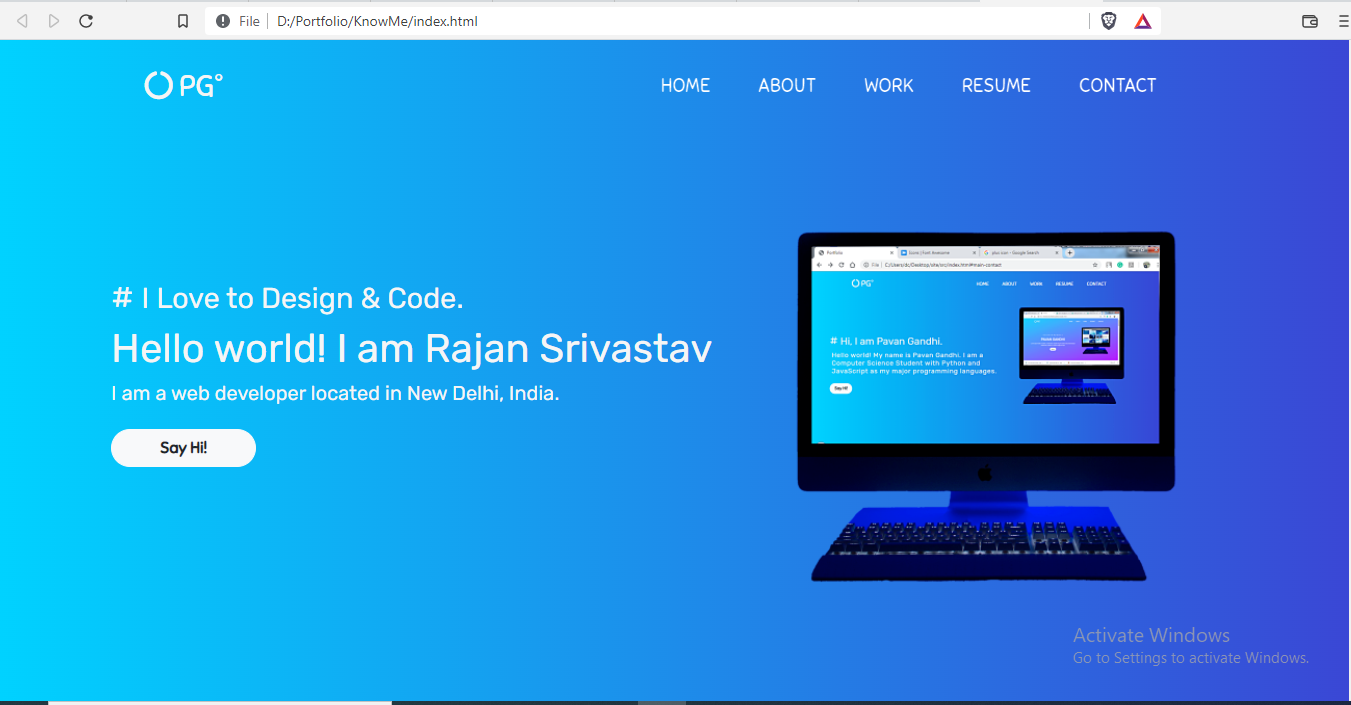
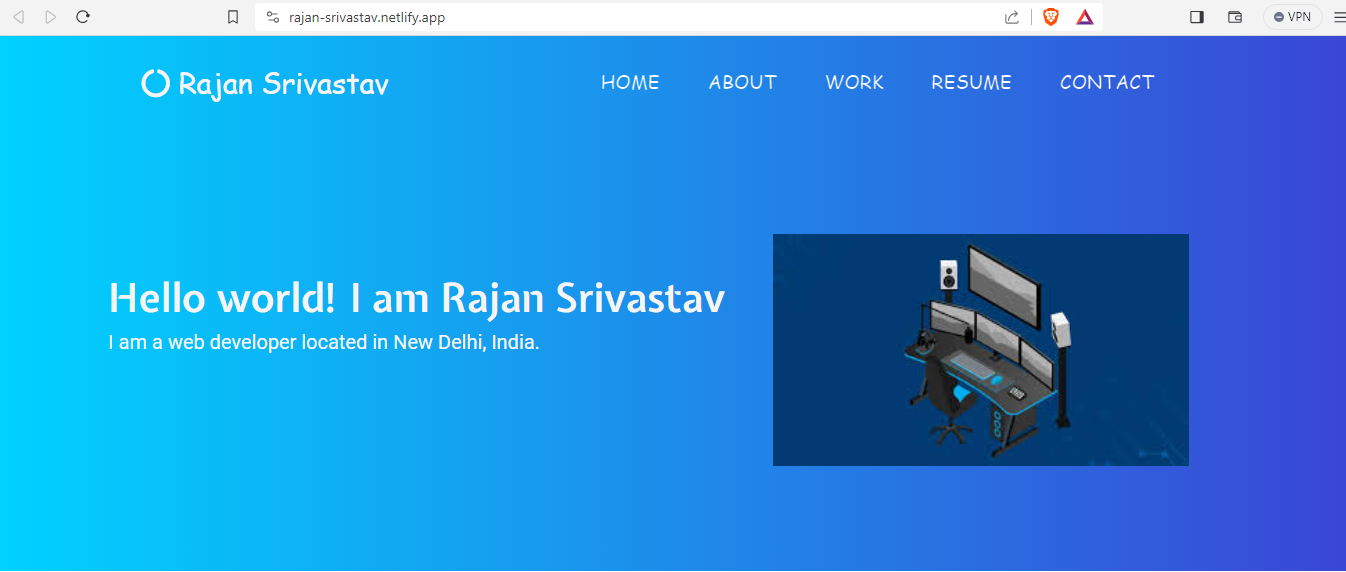
Updating projects and other minor changes

diff --git a/index.html b/index.html
@@ -77,7 +77,7 @@
 
             <h1 class="header-expletus-font">Hello world! I am Rajan Srivastav</h1>
             <h5>
-              I am a web developer located in New Delhi, India.
+              I am a Web Developer based out of New Delhi, India.
             </h5>
 
             <!-- <div class="text-left">
@@ -196,9 +196,9 @@
                 </p>
                 <h4>SKILLS</h4>
                 <p>
-                  Javascript, Python, HTML5, CSS3,<br />
-                  MySQL,<br />
-                  Git, Github, VSCode, Linux
+                  React, Javascript, Java<br />
+                  HTML5, CSS3, Tailwind CSS<br />
+                  MySQL, Oracle
                 </p>
 
                 <a class="btn btn-light px-3 py-1.5" href="assets/profile.pdf"
@@ -241,65 +241,78 @@
       <section id="main-project" class="section-4">
         <div class="container text-center">
           <h1 class="header-expletus-font">Projects I have done</h1>
-          <p class="text-secondary">Kindly visit My Github Profile for My Projects: <a href="https://github.com/wortit988">wortit988</a></p>
+          <p class="text-secondary">Kindly visit My Github Profile for My Projects: <a href="https://github.com/wortit988">Wortit988</a></p>
         </div>
         <div class="cards">
           <div class="d-flex flex-md-row flex-wrap justify-content-center">
-            <div
-              class="card mr-2 d-inline-block shadow-lg"
-              style="width: 18rem"
-            >
-              <img src="assets/background.png" class="card-img-top" alt="..." />
-              <div class="card-body">
-                <h4 class="card-title">My Portfolio</h4>
-                <p class="card-text">
-                  Created my personal/portfolio website using technologies like
-                  HTML5, CSS3, BOOTSTRAP v4.3 and JavaScript.
-                </p>
-              </div>
-              <div class="card-body">
-                <a
-                  href=https://github.com/wortit988"
-                  target="_blank"
-                  class="card-link"
-                  >Project link</a
+            <a href="https://github.com/wortit988/Portfolio" style="color: #000000; text-decoration: none;" target="_blank" >
+                <div
+                  class="card mr-2 d-inline-block shadow-lg"
+                  style="width: 18rem"
                 >
-              </div>
-            </div>
-            <div
-              class="card mr-2 d-inline-block shadow-lg"
-              style="width: 18rem"
-            >
-              <img
-                src="assets/background-def.png"
-                class="card-img-top"
-                alt="..."
-              />
-              <div class="card-body">
-                <h4 class="card-title">New Project 2</h4>
-                <p class="card-text">Not Listed Yet.</p>
-              </div>
-              <div class="card-body">
-                <a href="#" class="card-link"></a>
-              </div>
-            </div>
-            <div
-              class="card mr-2 d-inline-block shadow-lg"
-              style="width: 18rem"
-            >
-              <img
-                src="assets/background-def.png"
-                class="card-img-top"
-                alt="..."
-              />
-              <div class="card-body">
-                <h4 class="card-title">New Project 3</h4>
-                <p class="card-text">Not Listed Yet.</p>
-              </div>
-              <div class="card-body">
-                <a href="#" class="card-link"></a>
-              </div>
-            </div>
+                  <img src="assets/background.png" class="card-img-top" alt="..." />
+                  <div class="card-body">
+                    <h4 class="card-title">Portfolio</h4>
+                    <p class="card-text">
+                      Created my personal portfolio website using technologies like
+                      HTML5, CSS3, BOOTSTRAP v4.3 and JavaScript and deployed on netlify.</p>
+                  </div>
+                </div>
+              </a>
+            <a href="https://github.com/wortit988/CityBites" style="color: #000000; text-decoration: none;" target="_blank" >
+                <div
+                  class="card mr-2 d-inline-block shadow-lg"
+                  style="width: 18rem"
+                >
+                  <img
+                    src="assets/background-def.png"
+                    class="card-img-top"
+                    alt="..."
+                  />
+                  <div class="card-body">
+                    <h4 class="card-title">CityBites</h4>
+                    <p class="card-text">An online food ordering app created by using 
+                      React, Redux Tool Kit, Tailwind CSS & Swiggy API.</p>
+                  </div>
+                </div>
+            </a>
+            <a href="https://github.com/wortit988/VidTube" style="color: #000000; text-decoration: none;" target="_blank" >
+                <div
+                  class="card mr-2 d-inline-block shadow-lg"
+                  style="width: 18rem"
+                >
+                  <img
+                    src="assets/background-def.png"
+                    class="card-img-top"
+                    alt="..."
+                  />
+                  <div class="card-body">
+                    <h4 class="card-title">VidTube</h4>
+                    <p class="card-text">A Video Playing Application built using 
+                      React JS, Tailwind CSS, Redux Tool Kit, YouTube Videos API & Google Autocomplete API.</p>
+                  </div>
+                  <!-- <div class="card-body">
+                    <a href="https://github.com/wortit988/VidTube" class="card-link">Github Repo</a>
+                  </div> -->
+                </div>
+            </a>
+            <a href="https://github.com/wortit988/netflix-gpt" style="color: #000000; text-decoration: none;" target="_blank" >
+                <div
+                class="card mr-2 d-inline-block shadow-lg"
+                style="width: 18rem"
+                >
+                <img
+                  src="assets/background-def.png"
+                  class="card-img-top"
+                  alt="..."
+                />
+                <div class="card-body">
+                  <h4 class="card-title">NetflixGPT</h4>
+                  <p class="card-text">Netflix like responsive video browsing app built
+                    React, Tailwind CSS, Redux Tool Kit, TMDB API, GPT API & Firebase.</p>
+                  </div>
+                </div>
+            </a>
           </div>
         </div>
       </section>
@@ -363,7 +376,7 @@
       </div>
       <div class="pt-5 text-center">
         <p class="pt-2 text-muted">
-          Copyright ©2022 All rights reserved | This site is
+          Copyright ©2024 All rights reserved | This site is
           <i class="fas fa-code"></i> with <i class="fas fa-heart"></i> by
           <a class="sp" href="https://www.github.com/wortit988" target="_blank"
             ><span> Rajan Srivastav </span></a
